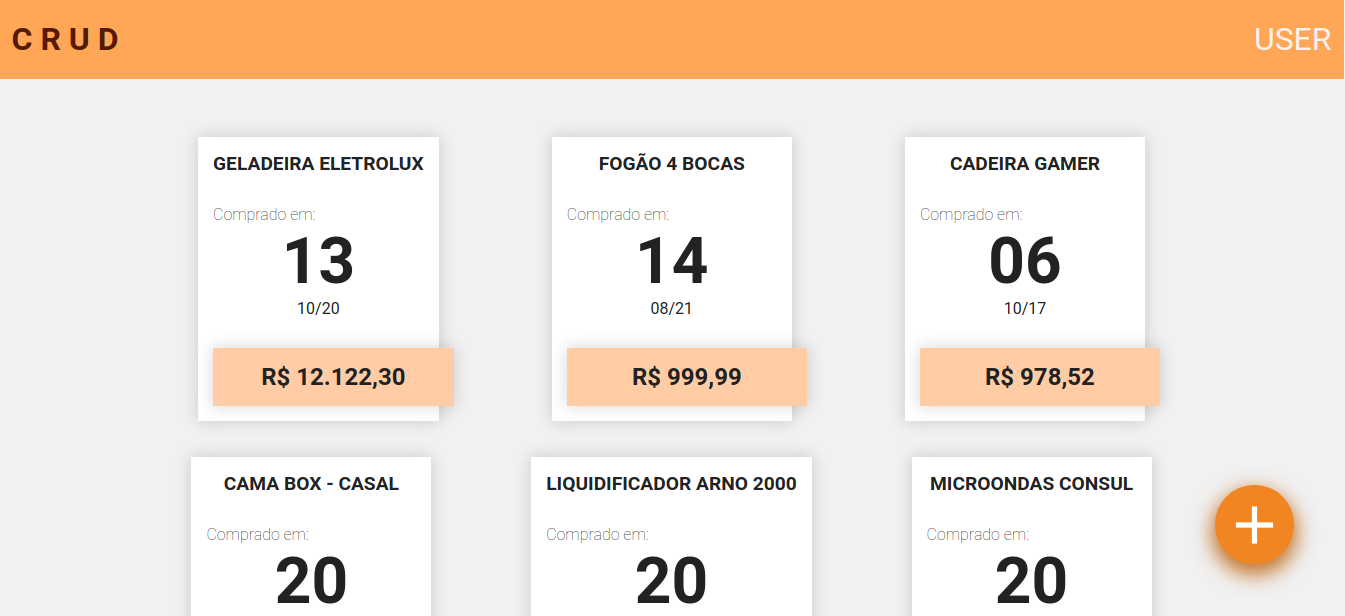
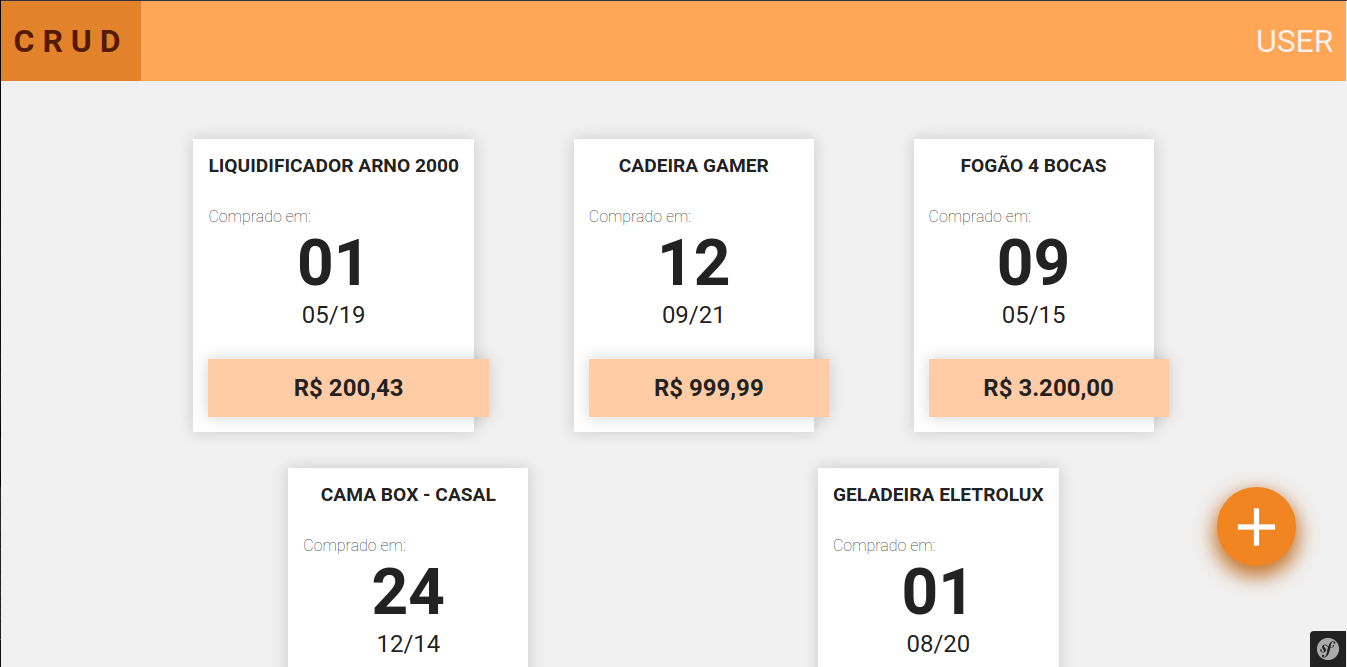
Atualizando css do card

diff --git a/web/css/card.css b/web/css/card.css
@@ -39,6 +39,7 @@
 
 .item div:first-of-type p:last-child{
     font-weight: normal;
+    font-size: 1.5em;
 }
 
 .item .valor{

diff --git a/src/AppBundle/Form/ProdutoType.php b/src/AppBundle/Form/ProdutoType.php
@@ -36,7 +36,7 @@ class ProdutoType extends AbstractType
                         '2020',
                         '2021'
                     ],
-                    'format'=> 'dd-MM-yyyy',
+                    'format'=> 'ddMMyyyy',
                     'attr'=>['class'=>'inptData']
                 ]
             )
